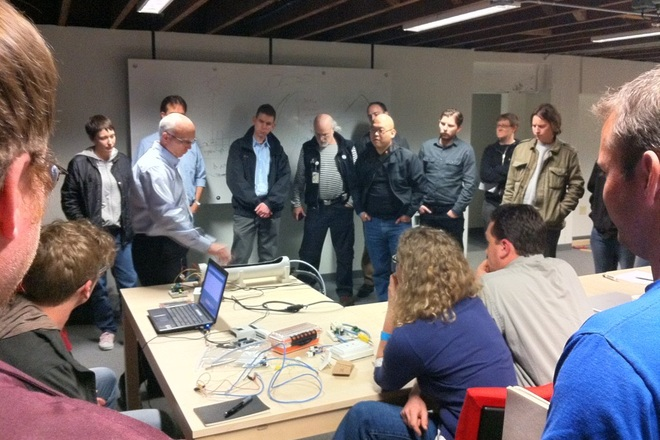
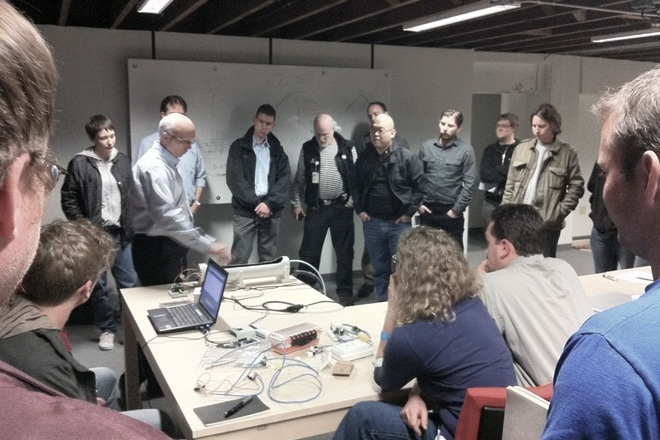
Polish identity band, contact rail, and Column 3 photos
- Widen identity paragraph measure to fix a widow on the first sentence
- Title-case the displayed email address (mailto stays lowercase)
- Rephrase the full-time-roles CTA to drop the comma, break after Milmoe.com
- Re-hue Columns 2/3 background to match the logo's "atory" red, same sat/val
- Desaturate the three Column 3 photos by 50%
- Align Column 1 and identity paragraph first-line baselines (was 6px off
  despite matching margins, due to differing font metrics)

diff --git a/styles.css b/styles.css
@@ -9,7 +9,11 @@
 
 :root {
   --bg-header: #FFFFFF;   /* masthead band only, exact logo-background match, never themed */
-  --bg: #F6F1E7;
+  --bg: #F6E8E7;          /* Column 2/3 background (body's own color — Column 1 and the masthead
+                              paint over it with their own tints). Same sat/val as the original
+                              warm cream (sat ~6%, val ~96.5%), hue re-matched to 5°, sampled from
+                              the "atory" letters at the end of the logo wordmark (core rgb
+                              170,52,41). */
   --bg-column1: #F6F6F9;  /* Column 1's background at every breakpoint — pixel-sampled from the
                               logo's own "Coo" letters (avg #585A82, hue 237°), then lightened
                               and desaturated down to a pale tint (hue 238°, sat ~18%, L ~97%).
@@ -32,7 +36,8 @@
 
 @media (prefers-color-scheme: dark) {
   :root {
-    --bg: #17111F;
+    --bg: #1F1211;  /* same hue re-match as the light --bg, applied to the dark base (sat ~45%,
+                        val ~12% preserved, hue to the "atory" 5°) */
     --bg-column1: #161727; /* same "closer to the logo ink, lighter and more blue" logic from
                                an already-cool dark base: hue 239°, sat ~27%, L ~12% — kept in
                                the same hue family as the light-mode tint's 238° */
@@ -164,8 +169,12 @@ img {
 .identity {
   grid-column: 2 / 4;
   grid-row: 1;
-  max-width: 680px;
-  margin: 96px 0 0;
+  max-width: 740px;
+  margin: 90px 0 0; /* 6px less than Column 1's 96px rhythm token — Bitter's and JetBrains
+                        Mono's differing font metrics meant equal margin-top still left the
+                        two columns' first-line baselines 6px apart (measured via pixel-row
+                        ink profiling, not eyeballed). This closes that gap; Column 1's own
+                        96px/276px sticky-lock math is untouched and stays the reference. */
 }
 
 /* Column 2 and Column 3: row 2, side by side, headings align horizontally */
@@ -230,6 +239,7 @@ img {
                    instead of landscape. Fixed once already, keep it fixed. */
   aspect-ratio: 3 / 2;
   object-fit: cover;
+  filter: saturate(50%);
 }
 
 .caption {

diff --git a/index.html b/index.html
@@ -55,8 +55,8 @@
   <aside class="col1-rail" aria-label="Contact and status">
     <div class="col1-sticky">
       <p class="mono-line">Email for availability</p>
-      <p class="mono-line"><a href="#" class="email-link js-only"></a><noscript><a href="mailto:andrew@coolaboratory.com">andrew@coolaboratory.com</a></noscript></p>
-      <p class="mono-line">For full-time roles, visit <a href="https://milmoe.com">Milmoe.com</a></p>
+      <p class="mono-line"><a href="#" class="email-link js-only"></a><noscript><a href="mailto:andrew@coolaboratory.com">Andrew@Coolaboratory.com</a></noscript></p>
+      <p class="mono-line">Visit <a href="https://milmoe.com">Milmoe.com</a><br>for full-time roles</p>
     </div>
   </aside>
 
@@ -74,10 +74,13 @@
   }
 
   var email = decode(DISPLAY_CODES);
+  var display = email.replace(/(^|@)([a-z])/g, function (m, boundary, letter) {
+    return boundary + letter.toUpperCase();
+  });
   var links = document.querySelectorAll('.email-link');
 
   for (var i = 0; i < links.length; i++) {
-    links[i].textContent = email;
+    links[i].textContent = display;
     links[i].href = 'mailto:' + email;
     links[i].classList.remove('js-only');
   }
